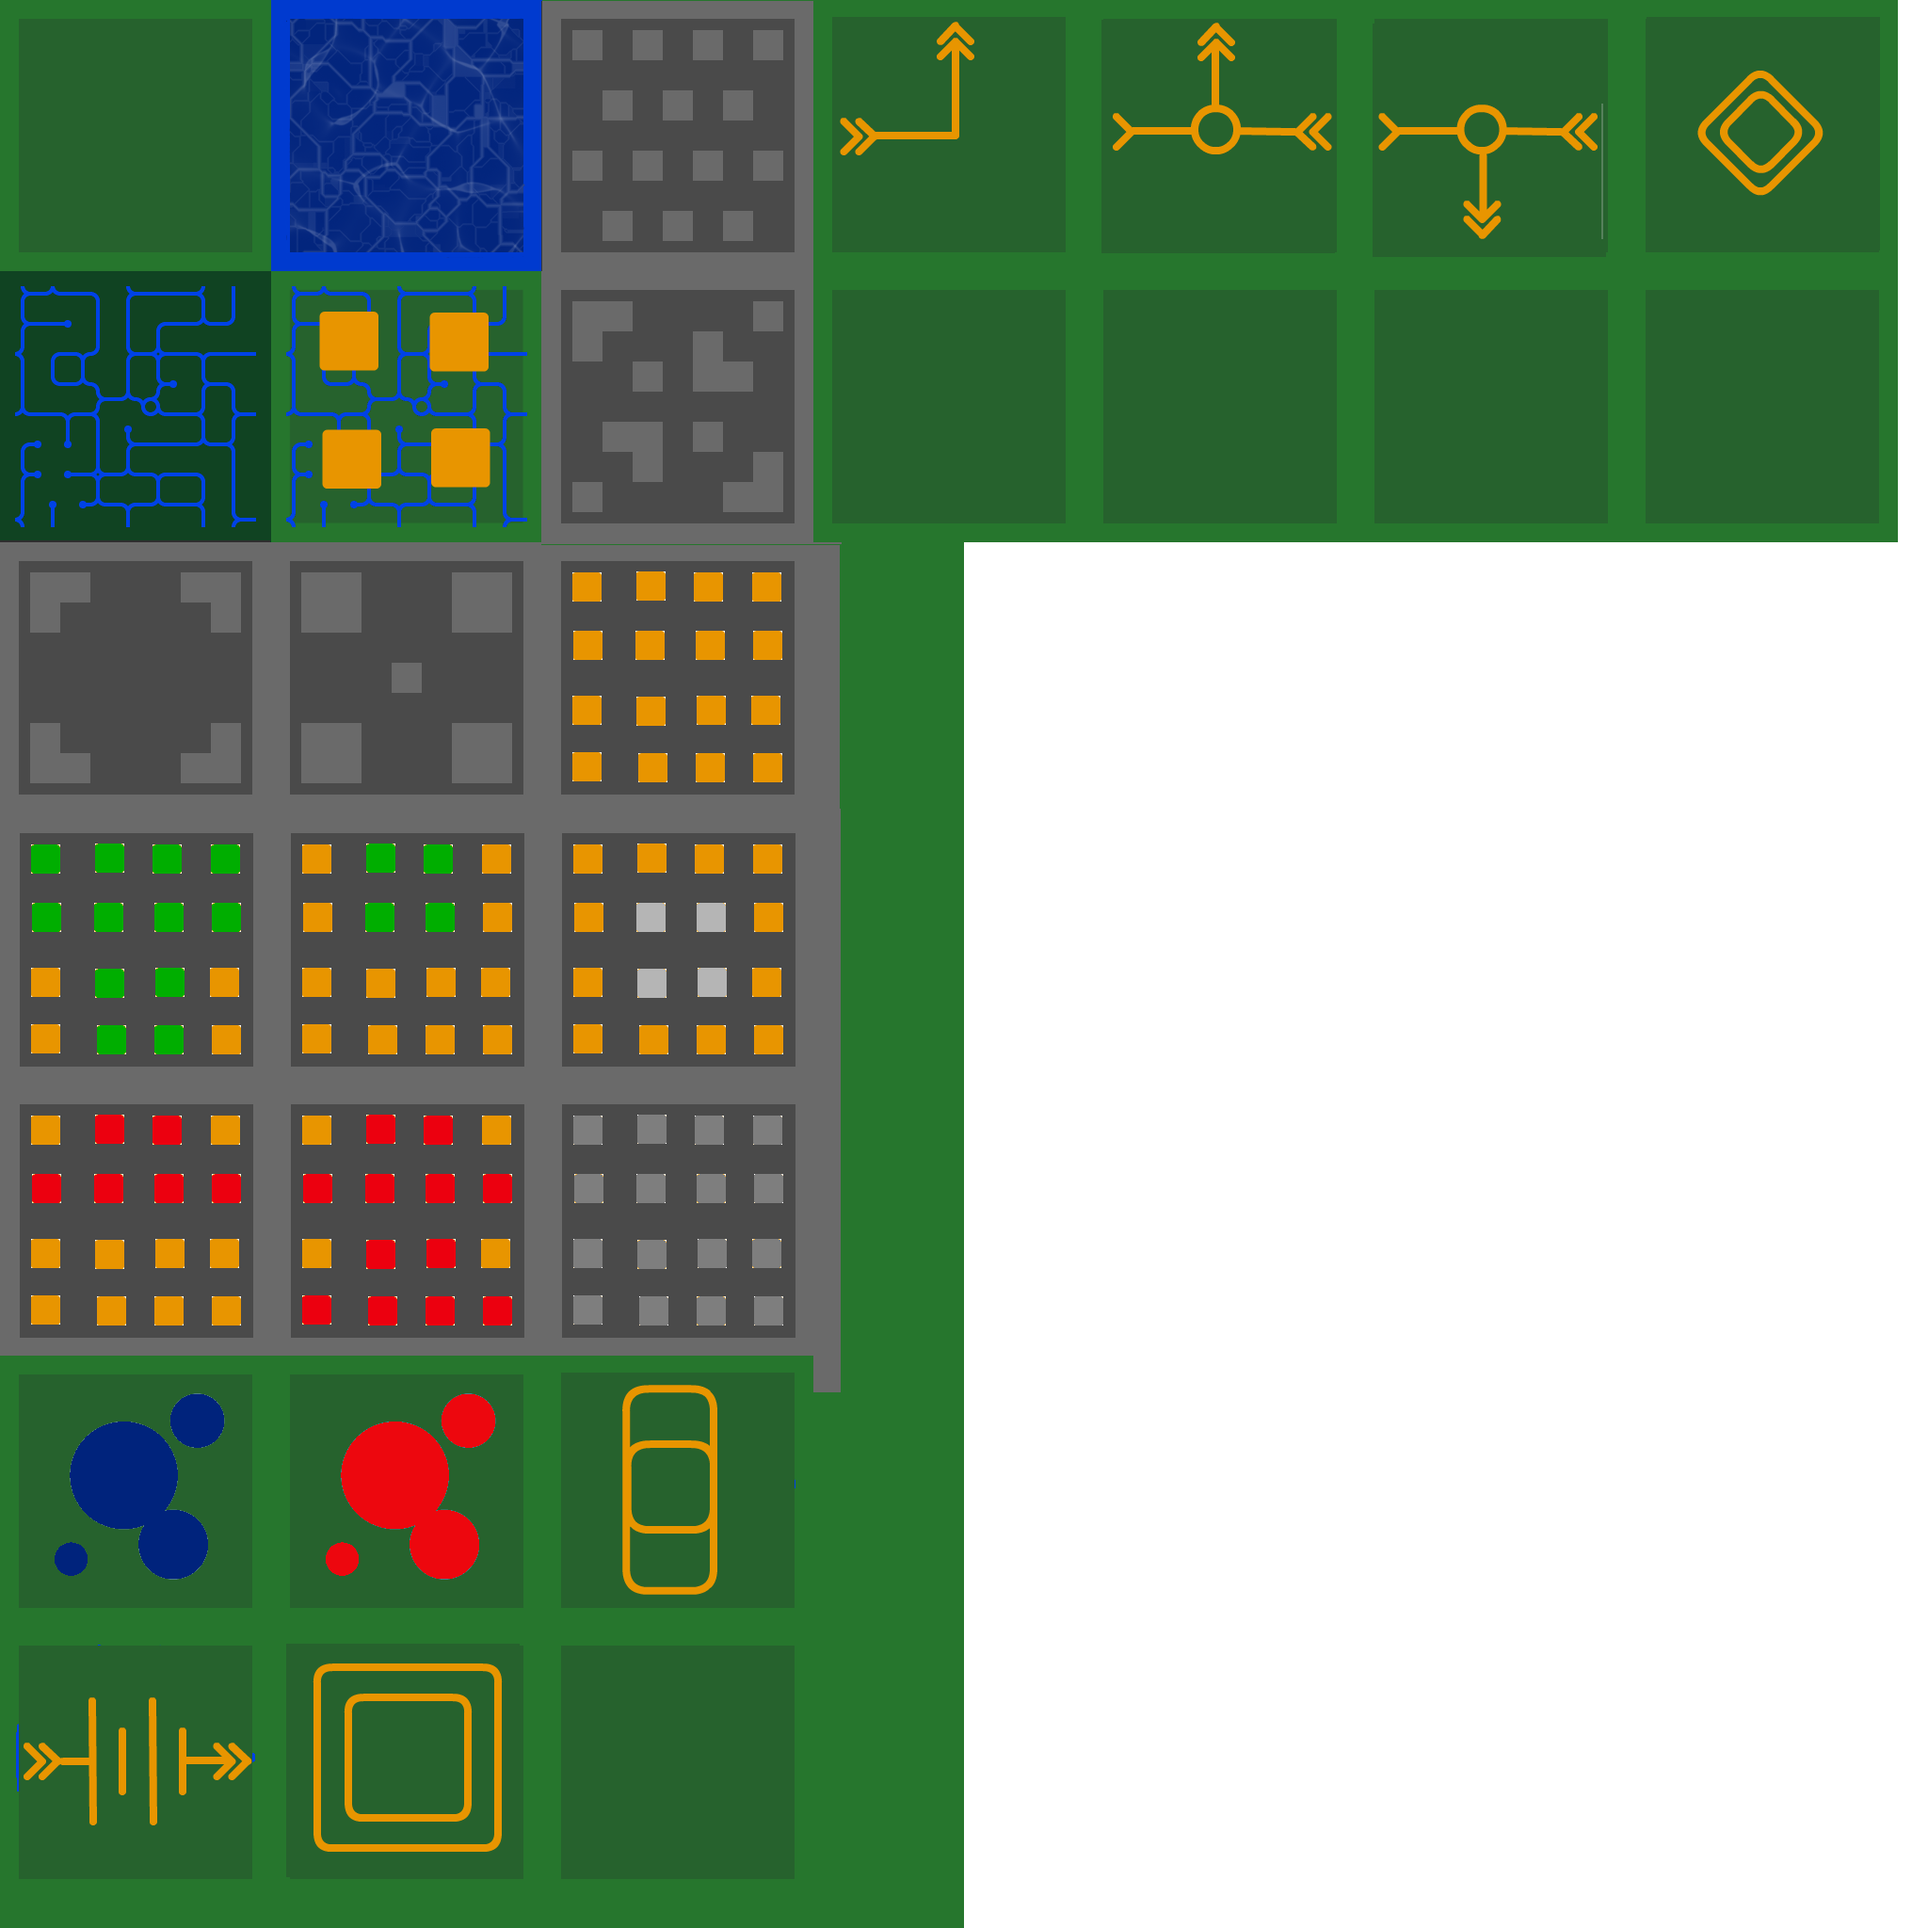
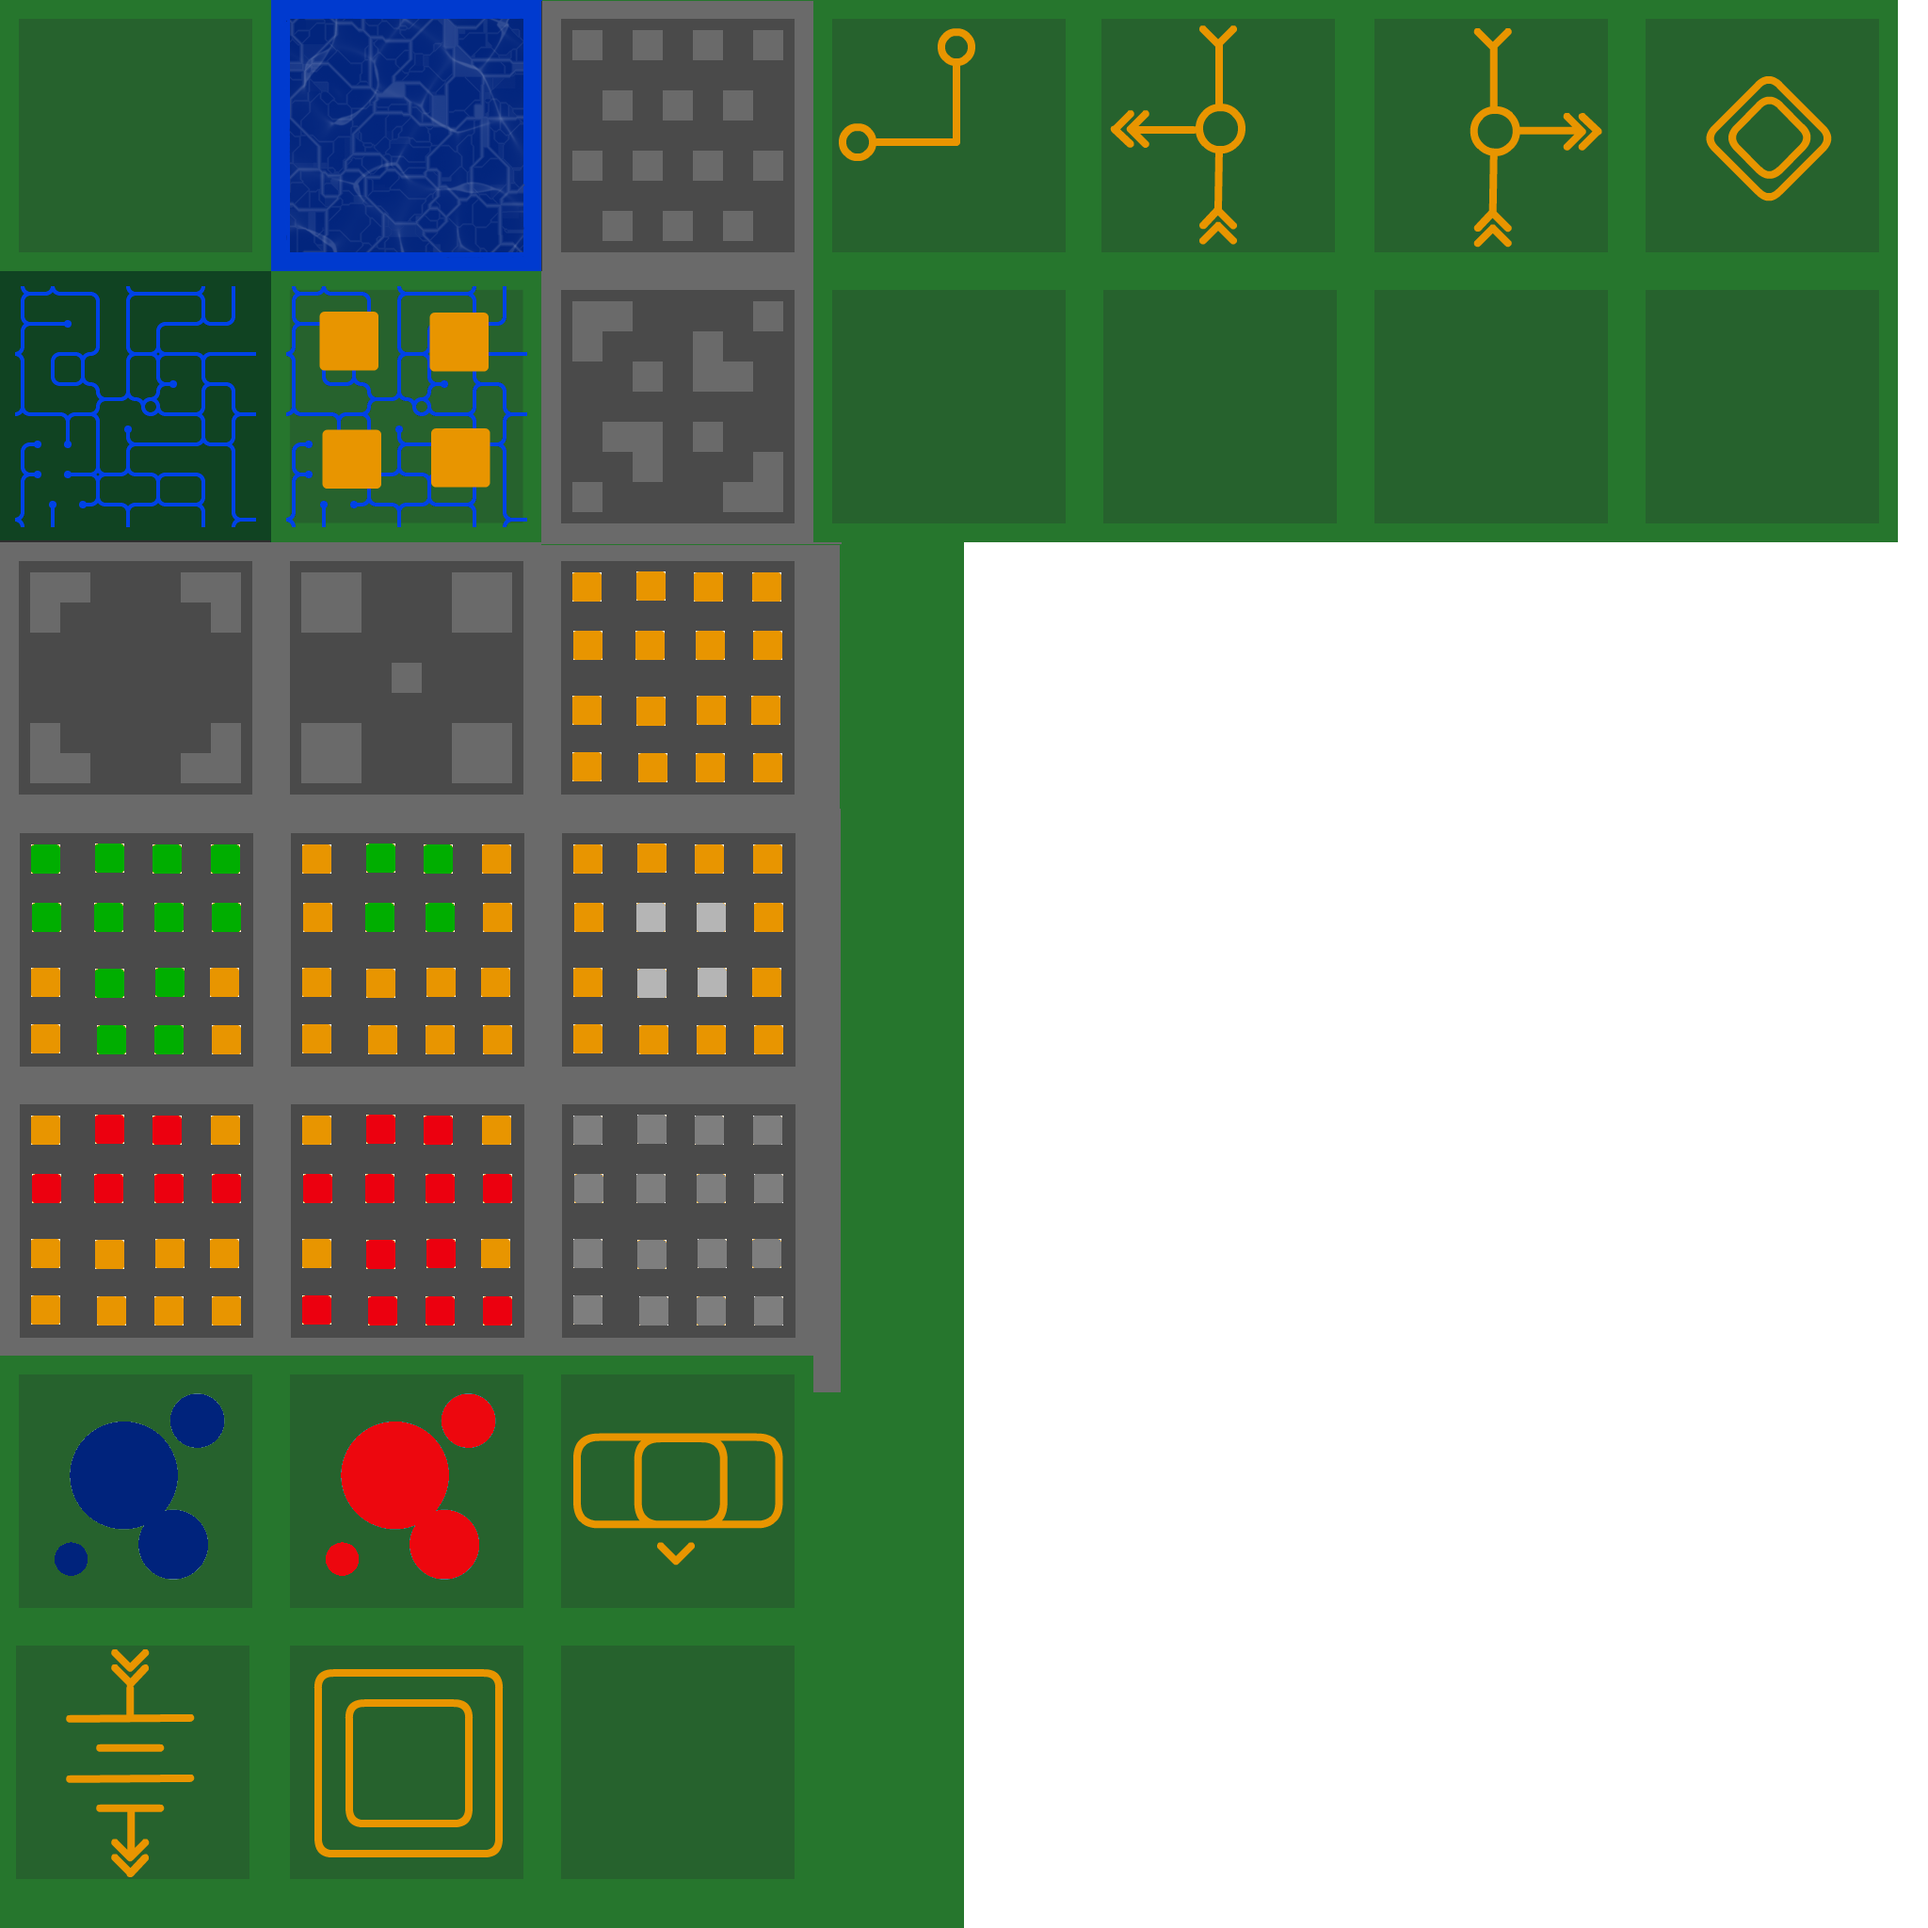
circuit coordinate fixes

diff --git a/game/circuitsim.cpp b/game/circuitsim.cpp
@@ -15,18 +15,19 @@ using namespace grinliz;
 static const float ELECTRON_SPEED = DEFAULT_MOVE_SPEED * 4.0f;
 static const float DAMAGE_PER_CHARGE = 15.0f;
 
-static const Vector2F DIR_F4[4] = {
-	{ 1, 0 },
+static const Vector2I DIR_I4[4] = {
 	{ 0, -1 },
 	{ -1, 0 },
 	{ 0, 1 },
+	{ 1, 0 },
 };
 
-static const Vector2I DIR_I4[4] = {
-	{ 1, 0 },
-	{ 0, -1 },
-	{ -1, 0 },
-	{ 0, 1 },
+
+static const Vector2F DIR_F4[4] = {
+	{ (float)DIR_I4[0].x, (float)DIR_I4[0].y },
+	{ (float)DIR_I4[1].x, (float)DIR_I4[1].y },
+	{ (float)DIR_I4[2].x, (float)DIR_I4[2].y },
+	{ (float)DIR_I4[3].x, (float)DIR_I4[3].y },
 };
 
 
@@ -63,7 +64,7 @@ void CircuitSim::Activate(const grinliz::Vector2I& pos)
 void CircuitSim::CreateElectron(const grinliz::Vector2I& pos, int rot4, int charge)
 {
 	Model* model = engine->AllocModel( charge ? "charge" : "spark");
-	Vector2F start = ToWorld2F(pos) + 0.1f * DIR_F4[rot4];
+	Vector2F start = ToWorld2F(pos);
 	model->SetPos(ToWorld3F(pos));
 
 	Electron e = { charge, rot4, 0.01f, pos, model };
@@ -163,7 +164,7 @@ bool CircuitSim::ElectronArrives(Electron* pe)
 {
 	const WorldGrid& wg = worldMap->grid[worldMap->INDEX(pe->pos)];
 	bool sparkConsumed = false;
-	int dir = (pe->dir - wg.CircuitRot() + 4) & 3; // Test: correct?
+	int dir = (pe->dir - wg.CircuitRot() + 4) & 3;
 
 	switch (wg.Circuit()) {
 		case CIRCUIT_SWITCH: {
@@ -203,23 +204,16 @@ bool CircuitSim::ElectronArrives(Electron* pe)
 		}
 		break;
 
-		/* in the voxel map: (remember these are DIRECTIONS...opposite of location)
-			    3
-			<-2  0->
-			    1
-		*/
 		case CIRCUIT_BEND:
-		if (dir == 0) pe->dir = ((pe->dir + 3) & 3);
-		else if (dir == 1) pe->dir = ((pe->dir + 1) & 3);
+		if (dir == 0) pe->dir = ((pe->dir + 1) & 3);
+		else if (dir == 3) pe->dir = ((pe->dir + 3) & 3);
 		break;
 
 		case CIRCUIT_FORK_2:
 		{
-			if (pe->charge == 0 || pe->charge > 1) {
-				CreateElectron(pe->pos, ((pe->dir + 1) & 3), pe->charge/2);
-				CreateElectron(pe->pos, ((pe->dir + 3) & 3), pe->charge/2);
-				sparkConsumed = true;
-			}
+			CreateElectron(pe->pos, ((pe->dir + 1) & 3), pe->charge/2);
+			CreateElectron(pe->pos, ((pe->dir + 3) & 3), pe->charge/2);
+			sparkConsumed = true;
 		}
 		break;
 
@@ -232,7 +226,7 @@ bool CircuitSim::ElectronArrives(Electron* pe)
 				sparkConsumed = true;
 			}
 			else if (pe->charge && dir == 2) {
-				pe->dir = pe->dir + ((wg.Circuit() == CIRCUIT_TRANSISTOR_A) ? 1 : 3);
+				pe->dir = pe->dir + ((wg.Circuit() == CIRCUIT_TRANSISTOR_A) ? 3 : 1);
 				pe->dir = pe->dir & 3;
 			}
 			else {
